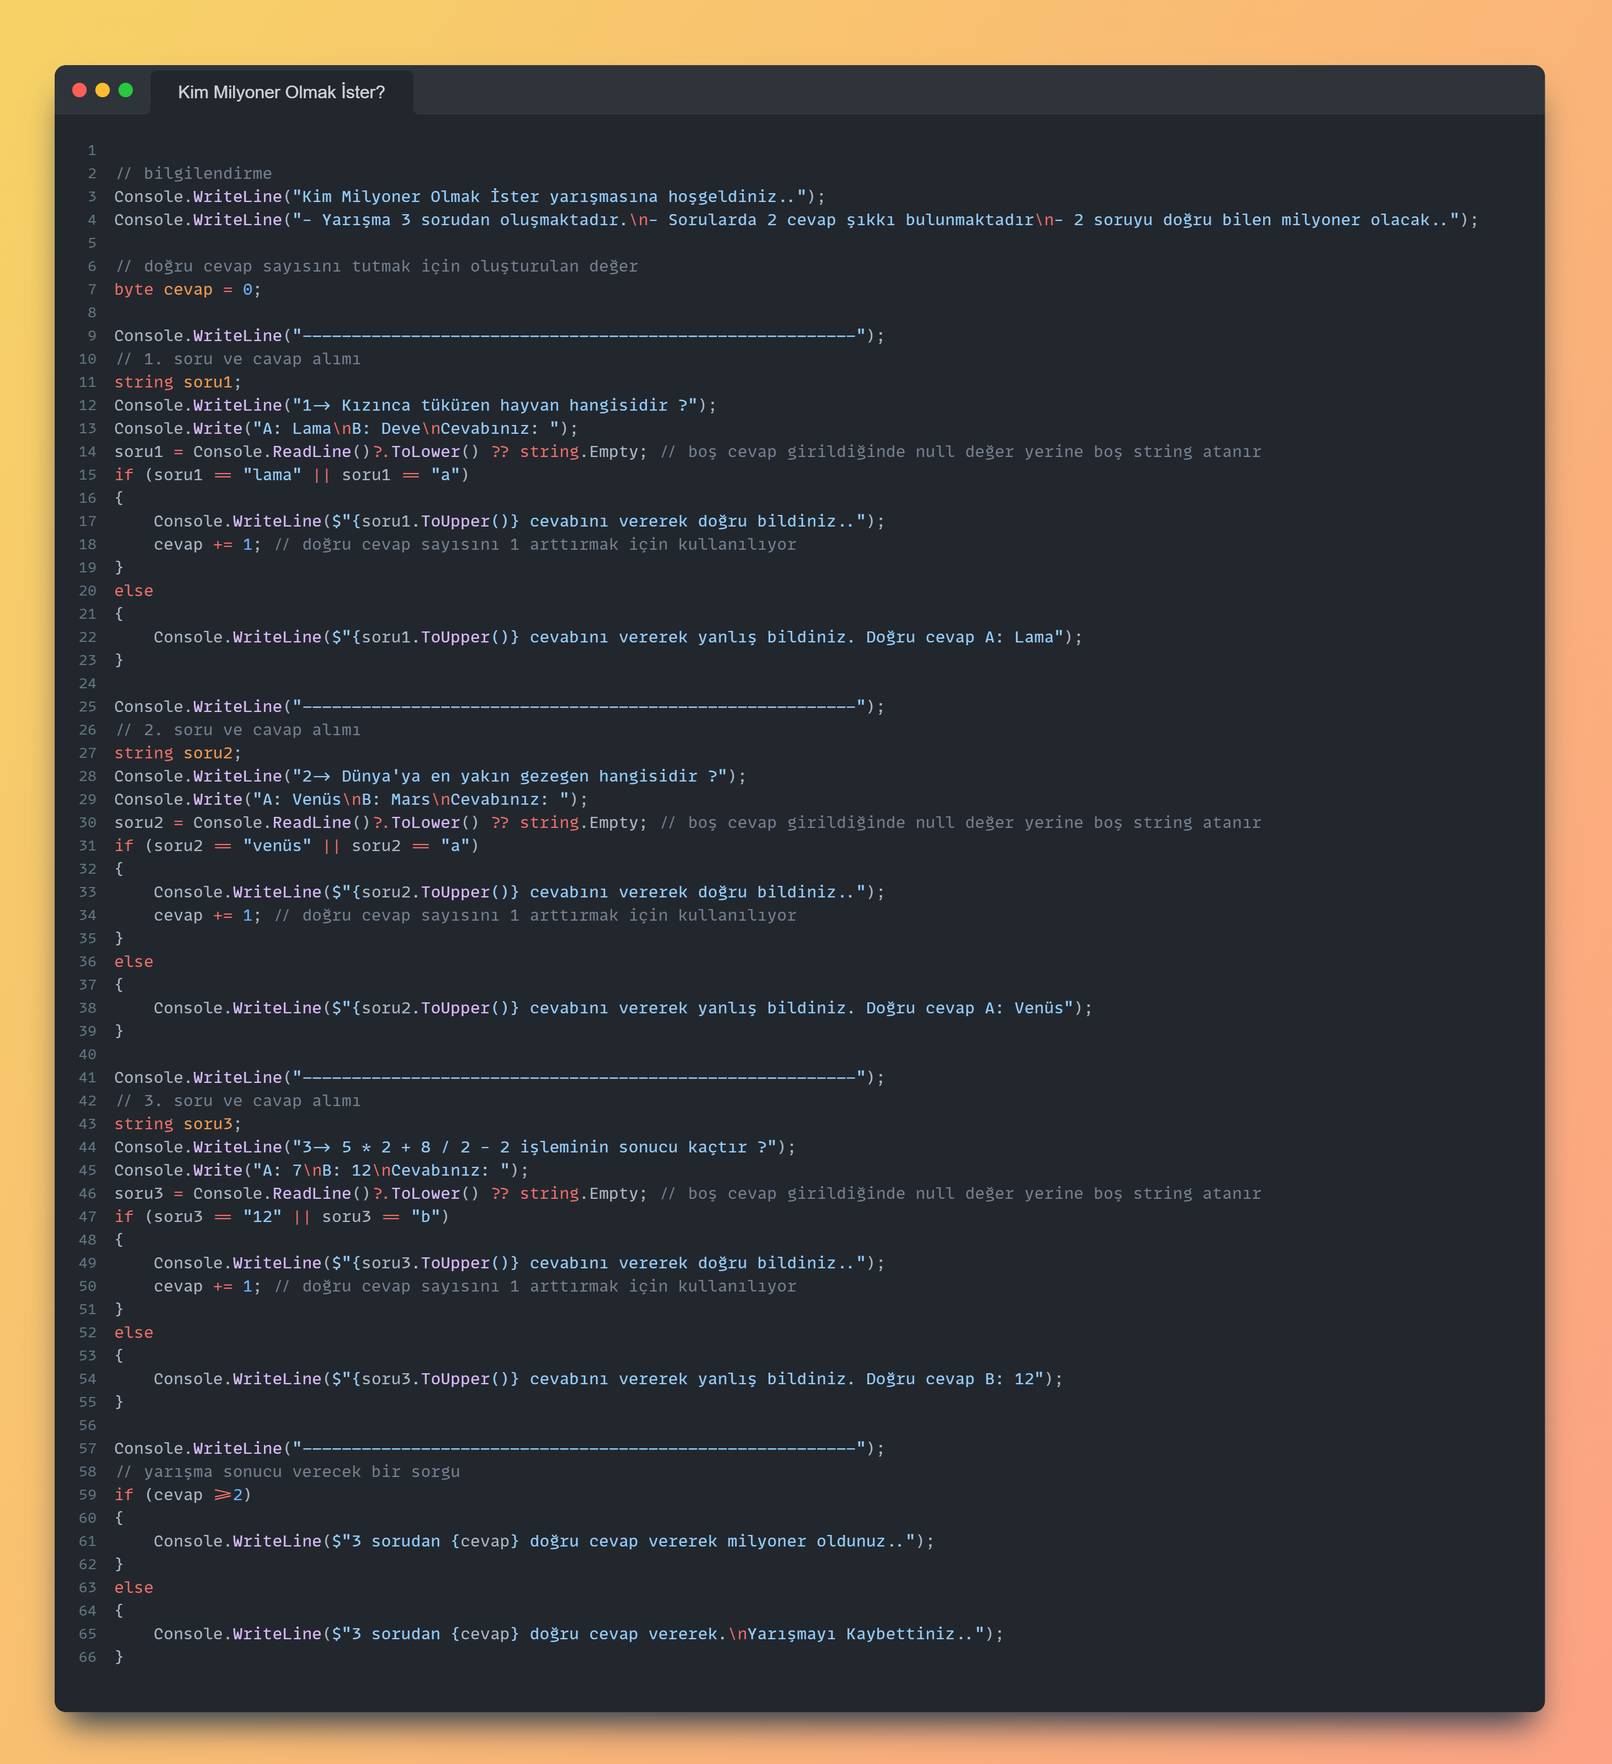
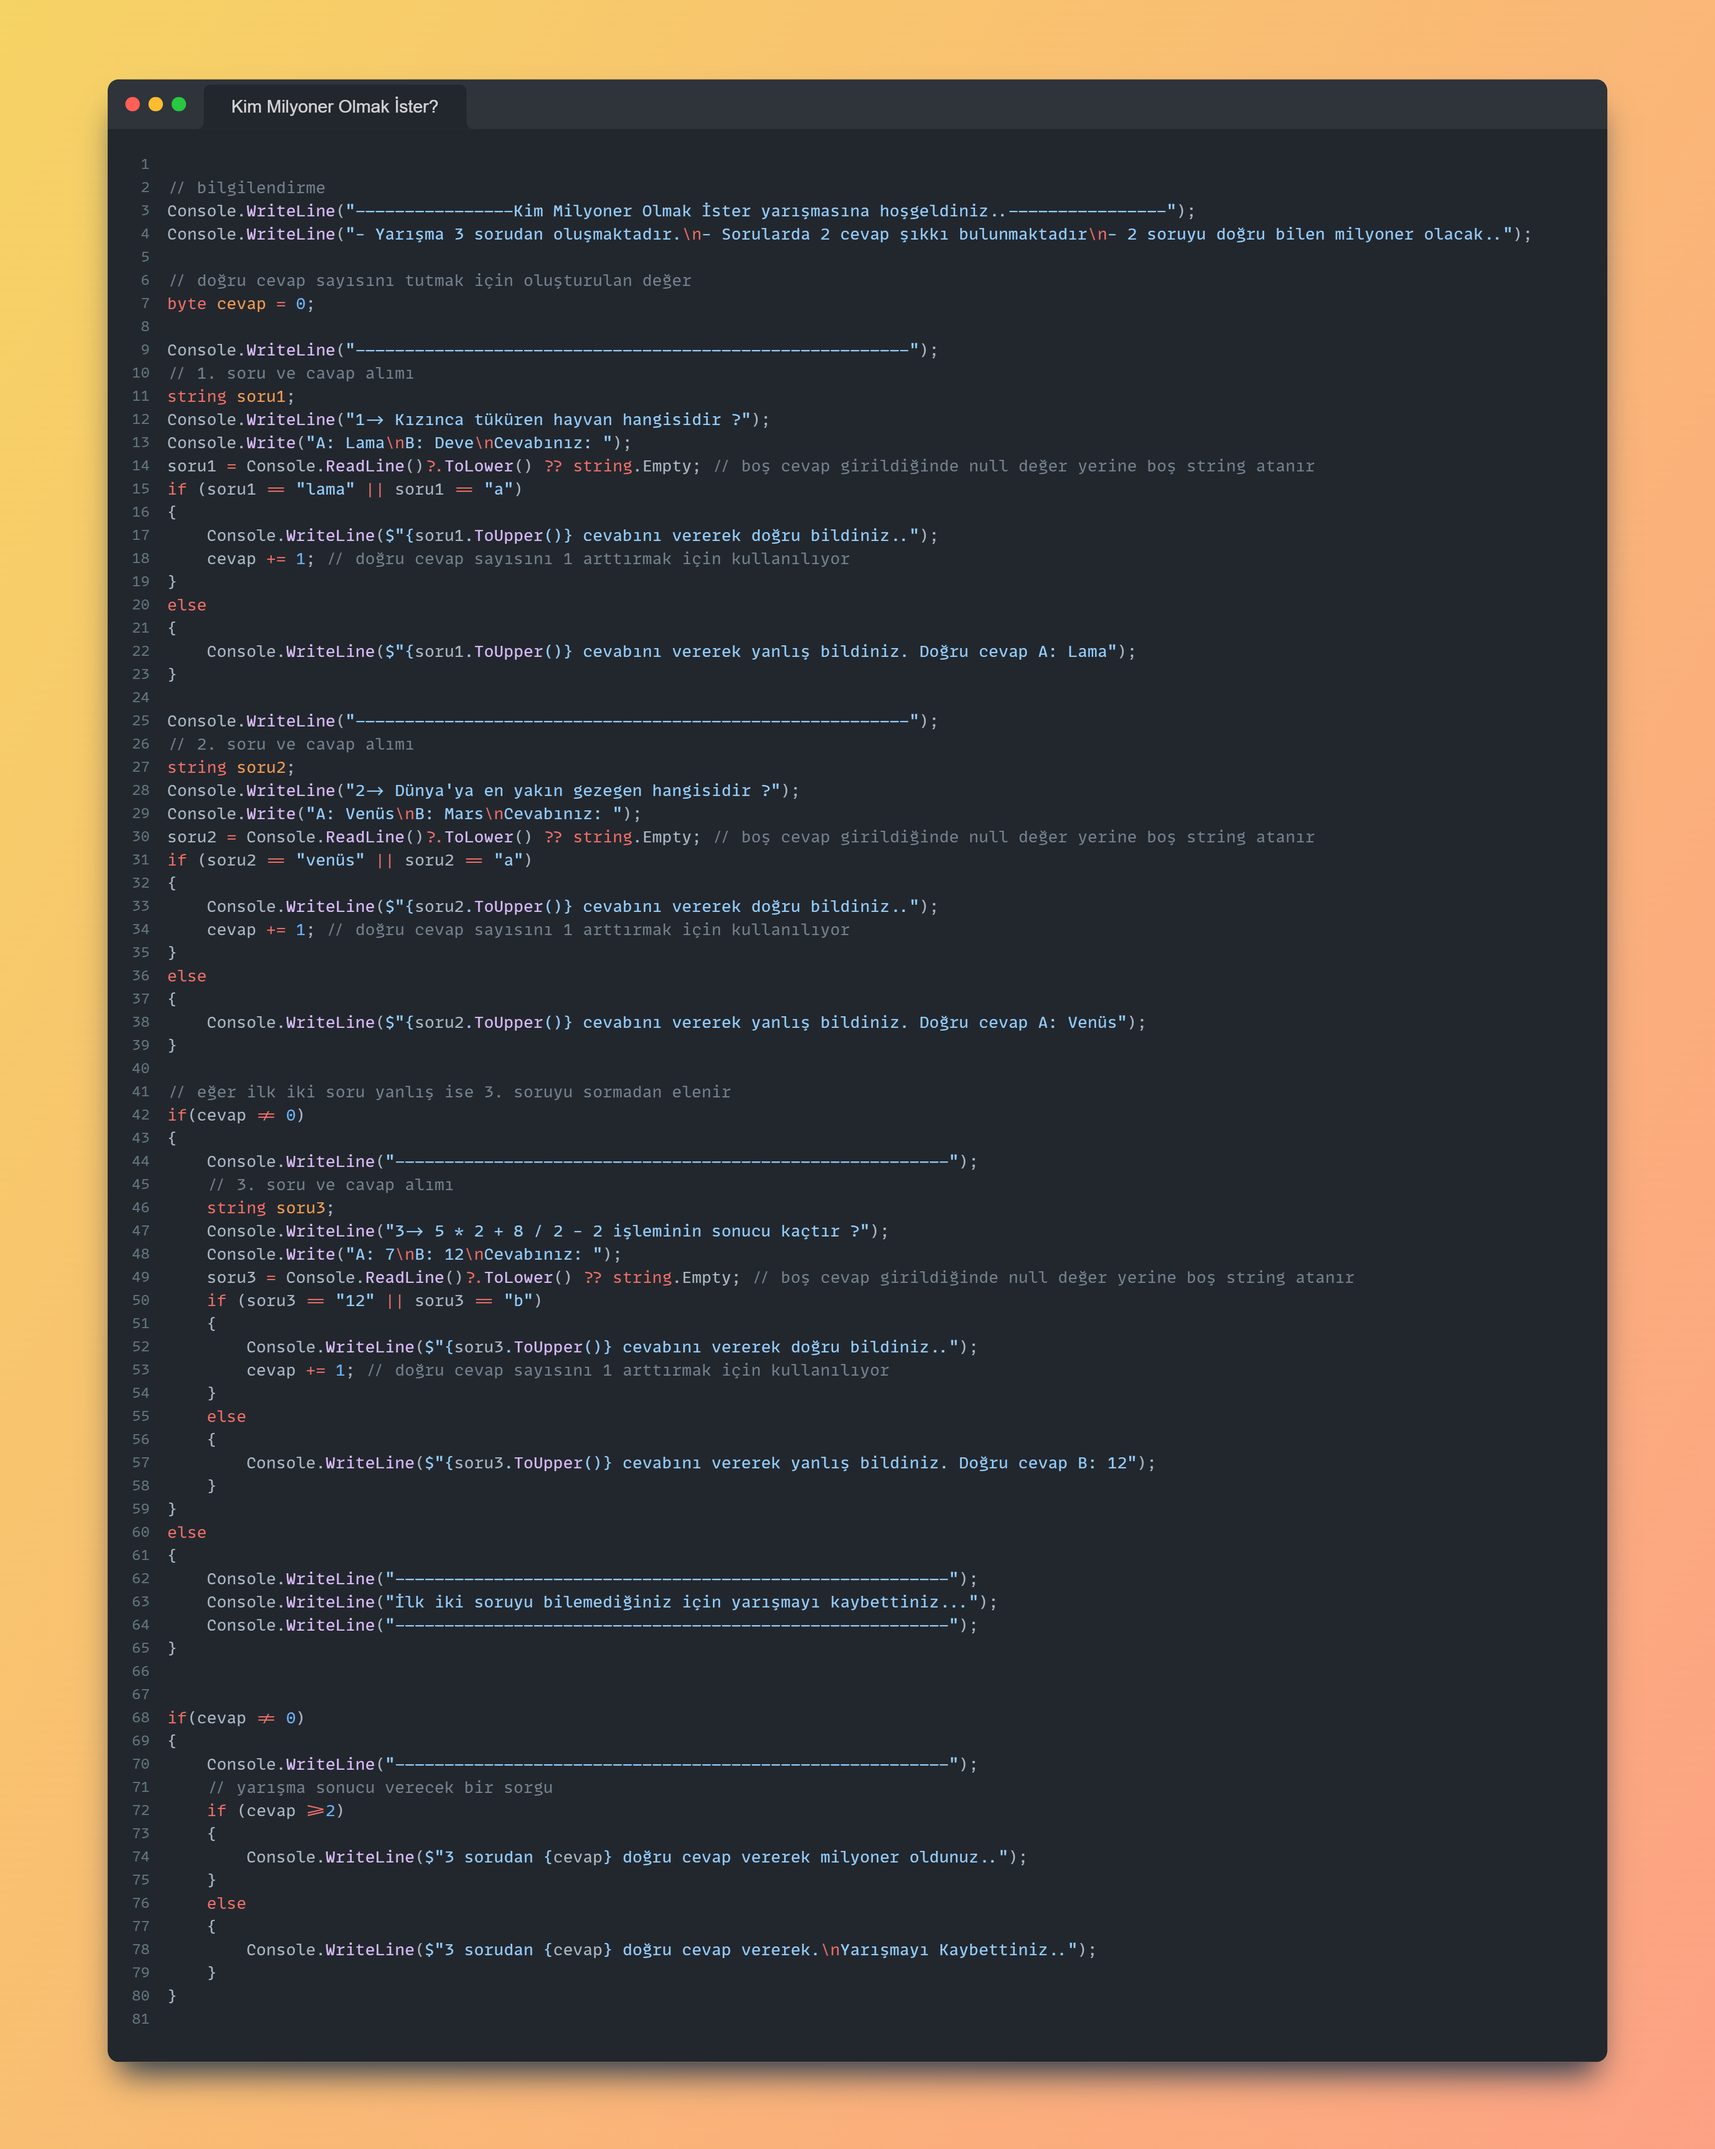
week_1 düzenlendi_1

diff --git a/week_1/kim-milyoner/Program.cs b/week_1/kim-milyoner/Program.cs
@@ -1,6 +1,6 @@
 
 // bilgilendirme
-Console.WriteLine("Kim Milyoner Olmak İster yarışmasına hoşgeldiniz..");
+Console.WriteLine("----------------Kim Milyoner Olmak İster yarışmasına hoşgeldiniz..----------------");
 Console.WriteLine("- Yarışma 3 sorudan oluşmaktadır.\n- Sorularda 2 cevap şıkkı bulunmaktadır\n- 2 soruyu doğru bilen milyoner olacak..");
 
 // doğru cevap sayısını tutmak için oluşturulan değer
@@ -38,29 +38,43 @@ else
     Console.WriteLine($"{soru2.ToUpper()} cevabını vererek yanlış bildiniz. Doğru cevap A: Venüs");
 }
 
-Console.WriteLine("--------------------------------------------------------");
-// 3. soru ve cavap alımı
-string soru3;
-Console.WriteLine("3-> 5 * 2 + 8 / 2 - 2 işleminin sonucu kaçtır ?");
-Console.Write("A: 7\nB: 12\nCevabınız: ");
-soru3 = Console.ReadLine()?.ToLower() ?? string.Empty; // boş cevap girildiğinde null değer yerine boş string atanır
-if (soru3 == "12" || soru3 == "b")
+// eğer ilk iki soru yanlış ise 3. soruyu sormadan elenir
+if(cevap != 0)
 {
-    Console.WriteLine($"{soru3.ToUpper()} cevabını vererek doğru bildiniz..");
-    cevap += 1; // doğru cevap sayısını 1 arttırmak için kullanılıyor
-}
-else 
-{
-    Console.WriteLine($"{soru3.ToUpper()} cevabını vererek yanlış bildiniz. Doğru cevap B: 12");
-}
-
-Console.WriteLine("--------------------------------------------------------");
-// yarışma sonucu verecek bir sorgu
-if (cevap >=2)
-{
-    Console.WriteLine($"3 sorudan {cevap} doğru cevap vererek milyoner oldunuz..");
+    Console.WriteLine("--------------------------------------------------------");
+    // 3. soru ve cavap alımı
+    string soru3;
+    Console.WriteLine("3-> 5 * 2 + 8 / 2 - 2 işleminin sonucu kaçtır ?");
+    Console.Write("A: 7\nB: 12\nCevabınız: ");
+    soru3 = Console.ReadLine()?.ToLower() ?? string.Empty; // boş cevap girildiğinde null değer yerine boş string atanır
+    if (soru3 == "12" || soru3 == "b")
+    {
+        Console.WriteLine($"{soru3.ToUpper()} cevabını vererek doğru bildiniz..");
+        cevap += 1; // doğru cevap sayısını 1 arttırmak için kullanılıyor
+    }
+    else 
+    {
+        Console.WriteLine($"{soru3.ToUpper()} cevabını vererek yanlış bildiniz. Doğru cevap B: 12");
+    }
 }
 else
 {
-    Console.WriteLine($"3 sorudan {cevap} doğru cevap vererek.\nYarışmayı Kaybettiniz..");
+    Console.WriteLine("--------------------------------------------------------");
+    Console.WriteLine("İlk iki soruyu bilemediğiniz için yarışmayı kaybettiniz...");
+    Console.WriteLine("--------------------------------------------------------");
+}
+
+
+if(cevap != 0)
+{
+    Console.WriteLine("--------------------------------------------------------");
+    // yarışma sonucu verecek bir sorgu
+    if (cevap >=2)
+    {
+        Console.WriteLine($"3 sorudan {cevap} doğru cevap vererek milyoner oldunuz..");
+    }
+    else
+    {
+        Console.WriteLine($"3 sorudan {cevap} doğru cevap vererek.\nYarışmayı Kaybettiniz..");
+    }
 }
